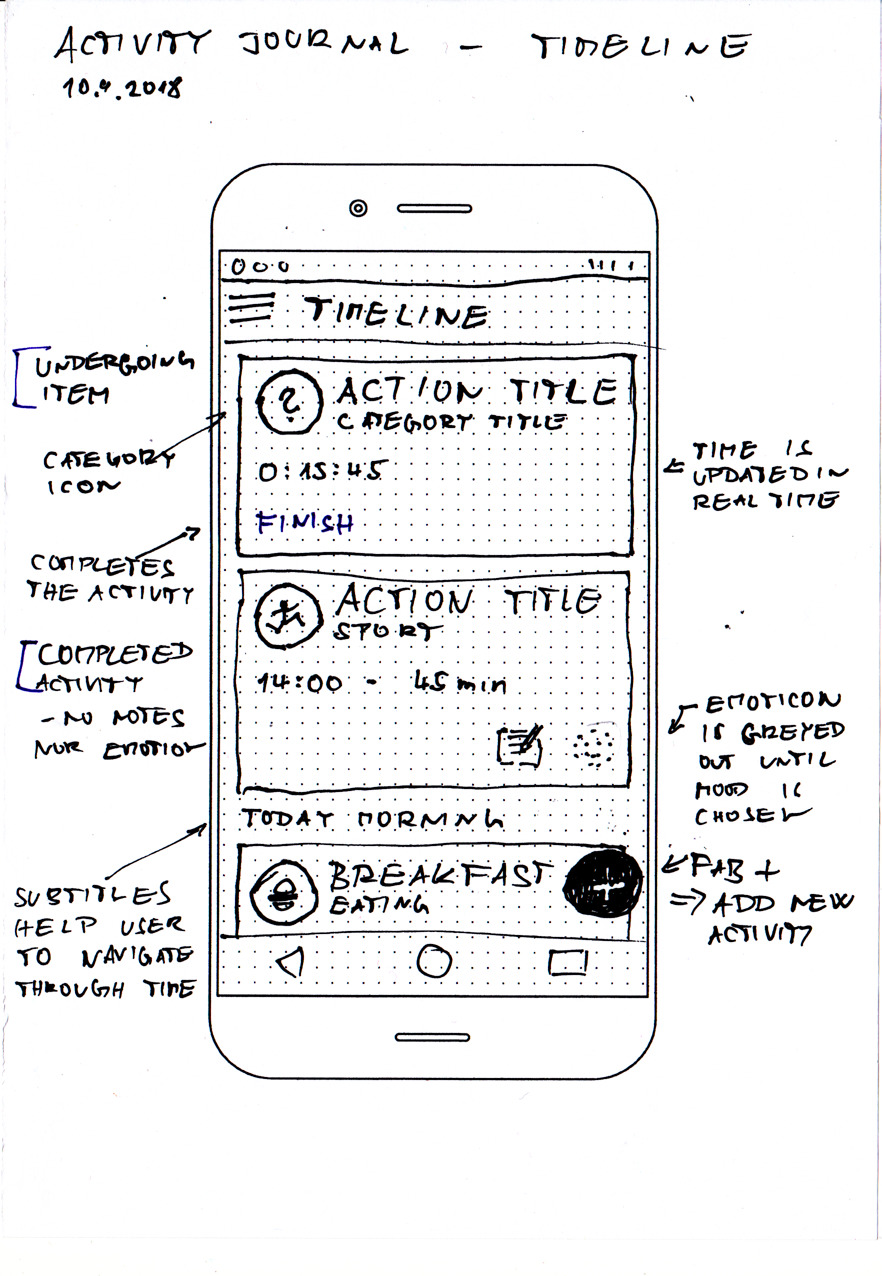
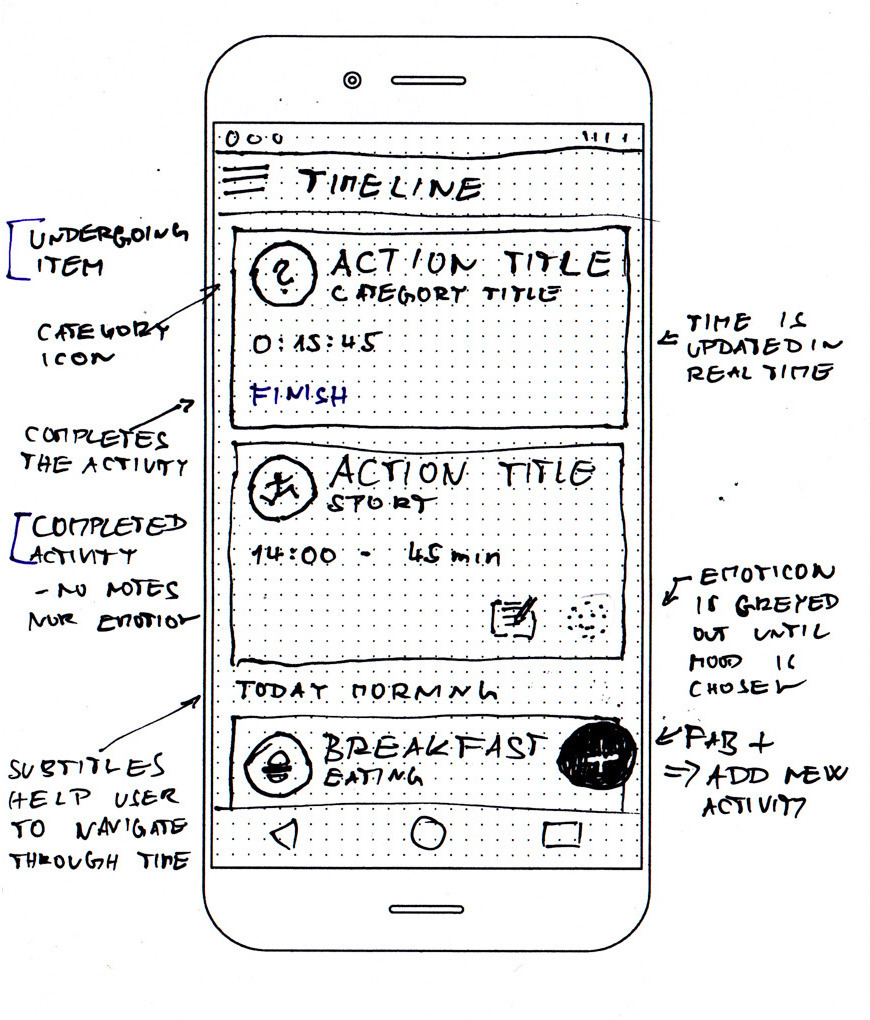
Added non-full-width image

diff --git a/_includes/responsive-image.html b/_includes/responsive-image.html
@@ -13,7 +13,7 @@ Usage:
 {%- unless ingallery -%}
 <div class="gallery gallery-alone">
 {%- endunless -%}
-<figure  itemprop="associatedMedia" itemscope itemtype="http://schema.org/ImageObject"><a  itemprop="contentUrl" class="imagelink" href="/{{ path }}" target="_image"  data-size="{{original.width}}x{{original.height}}"><img src="/{{ path }}" alt="{{ alt }}" srcset="{{ srcset | strip_newlines }}"  itemprop="thumbnail"></a>{%- if figcaption -%}<figcaption  itemprop="caption description">{{ figcaption }}</figcaption>{%- endif -%}
+<figure  itemprop="associatedMedia" itemscope itemtype="http://schema.org/ImageObject"><a  itemprop="contentUrl" class="imagelink" href="/{{ path }}" target="_image"  data-size="{{original.width}}x{{original.height}}"><img class="{{ class }}" src="/{{ path }}" alt="{{ alt }}" srcset="{{ srcset | strip_newlines }}"  itemprop="thumbnail"></a>{%- if figcaption -%}<figcaption  itemprop="caption description">{{ figcaption }}</figcaption>{%- endif -%}
 </figure>
 {%- unless ingallery -%}
 </div>

diff --git a/_assets/css/_media-queries.scss b/_assets/css/_media-queries.scss
@@ -42,11 +42,17 @@
   .social-icons-right {
     text-align: right;
   }
+
 }
 
 @media screen and (min-width: $viewport-medium) {
   html {
     font-size: 18px;
+  }
+
+
+  img.imgmw600 {
+    max-width: 30rem;
   }
 }
 

diff --git a/_posts/2018-09-12-activity-journal-designing-ux.md b/_posts/2018-09-12-activity-journal-designing-ux.md
@@ -34,9 +34,9 @@ This is just simple draft of a navigation graph that crudely captures screens an
 
 Timeline is the most important screen in the application and user will spend most of his time there. It's also the hardest screen to design.
 
-{% responsive_image path: images/activityjournal/wf_timeline1_p.jpeg alt: "Timeline wireframe 1 " figcaption: "Timeline 1"  template: _includes/responsive-image-small.html %}
+{% responsive_image path: images/activityjournal/wf_timeline1_p.jpeg alt: "Timeline wireframe 1 " figcaption: "Timeline 1"   class:'imgmw600' %}
 
-{% responsive_image path: images/activityjournal/wf_timeline2_p.jpeg alt: "Timeline wireframe 2" figcaption: "Timeline 2"  template: _includes/responsive-image-small.html %}
+{% responsive_image path: images/activityjournal/wf_timeline2_p.jpeg alt: "Timeline wireframe 2" figcaption: "Timeline 2"   class:'imgmw600' %}
 
 
 ## Add activity flow
